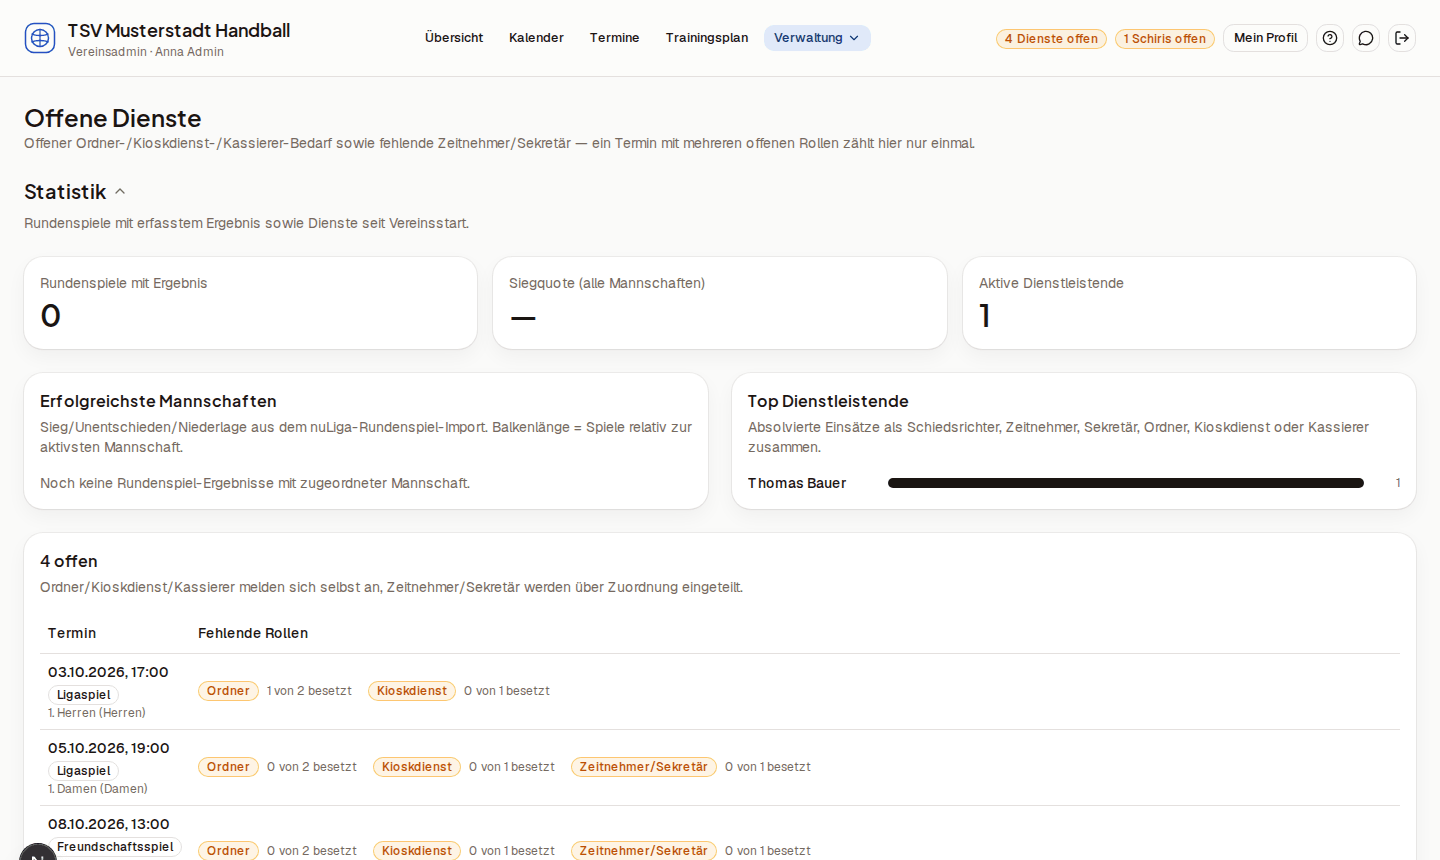
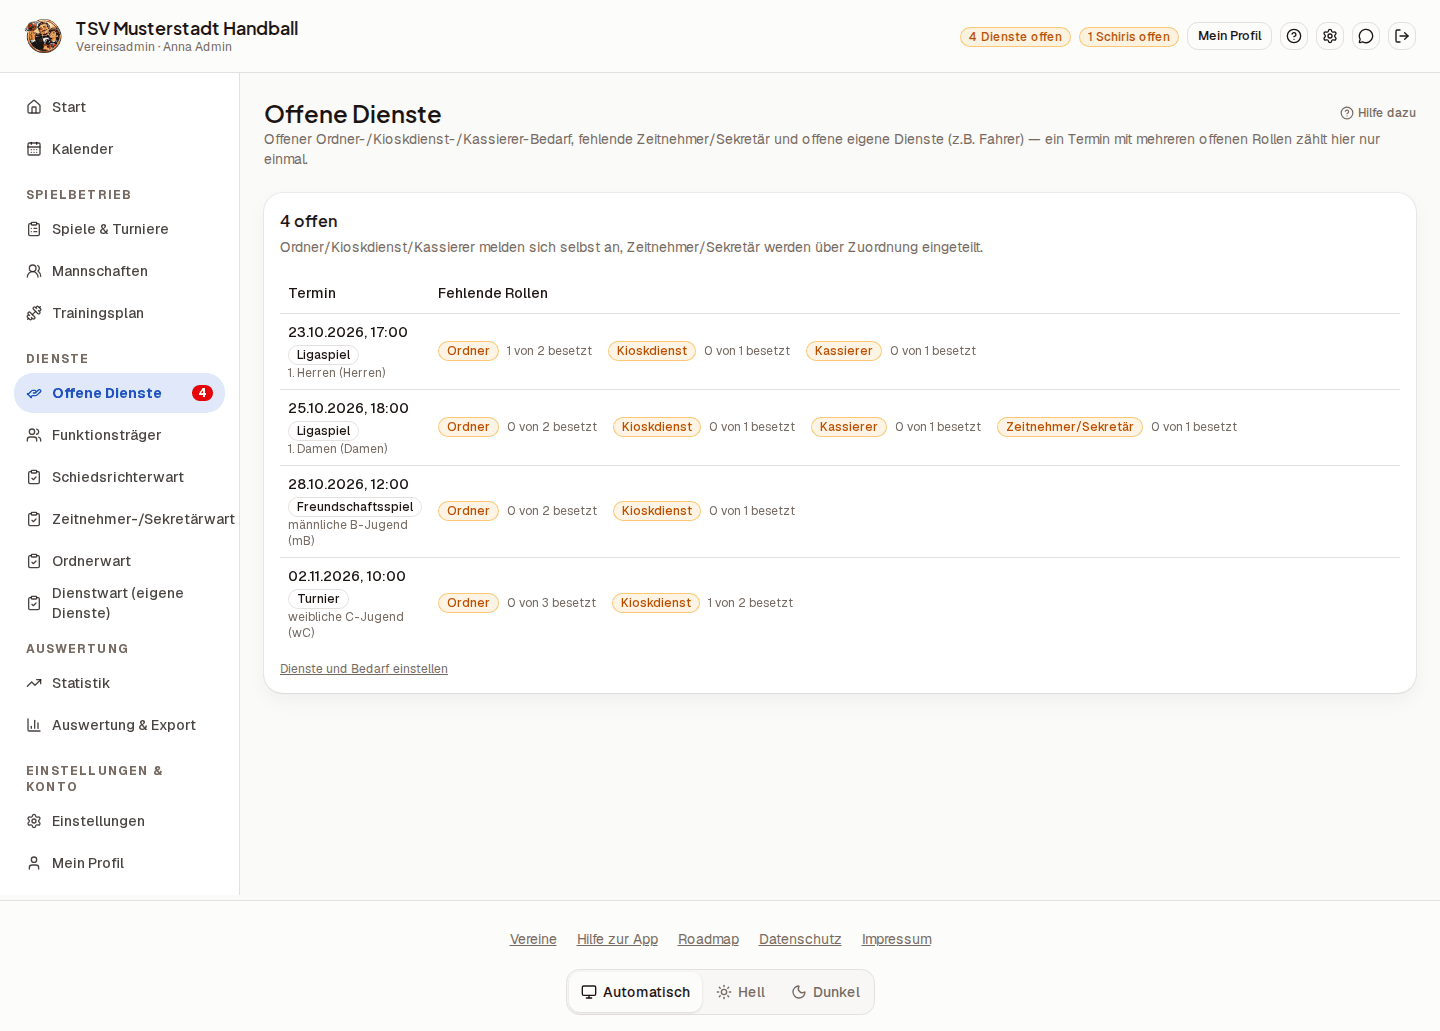
Produkttour: Screenshots im neuen Design, ganze Seite (#456)
* Neues Design: Aufgaben und Hinweise besser lesbar (größer, kontrastreicher)

Claude-Session: https://claude.ai/code/session_013fTG76qMZTfyH2cp8pMWjW

* Neues Design: Kopfzeile fest, Seitenleiste klebt darunter (kein Springen beim Scrollen)

Claude-Session: https://claude.ai/code/session_013fTG76qMZTfyH2cp8pMWjW

* Produkttour: Screenshots im neuen App-Design (Seed setzt design_neu, Zuschnitte angepasst)

Claude-Session: https://claude.ai/code/session_013fTG76qMZTfyH2cp8pMWjW

* Produkttour: Treiber-Patch an aktuellen Stand von db/admin.ts angepasst (Workflow schlug fehl)

Claude-Session: https://claude.ai/code/session_013fTG76qMZTfyH2cp8pMWjW

* Produkttour: Login-Feld heißt jetzt #email (Screenshot-Lauf schlug fehl)

Claude-Session: https://claude.ai/code/session_013fTG76qMZTfyH2cp8pMWjW

* Produkttour-Screenshots neu erzeugt

* Produkttour: Einrichtungs-Assistent überspringen, Next-Dev-Plakette ausblenden

Claude-Session: https://claude.ai/code/session_013fTG76qMZTfyH2cp8pMWjW

* Produkttour-Screenshots neu erzeugt

* Produkttour: ganze Seite statt Zuschnitt, Bildmaße aus masse.json

Claude-Session: https://claude.ai/code/session_013fTG76qMZTfyH2cp8pMWjW

* Produkttour-Screenshots neu erzeugt

* Produkttour: Bildmaße der Ganzseiten-Screenshots, Workflow checkt masse.json mit ein

Claude-Session: https://claude.ai/code/session_013fTG76qMZTfyH2cp8pMWjW

---------

diff --git a/src/app/page.tsx b/src/app/page.tsx
@@ -28,6 +28,7 @@ import { Button } from "@/components/ui/button";
 import { Logo } from "@/components/logo";
 import { ProdukttourBild } from "@/components/produkttour-bild";
 import { Einblenden } from "@/components/einblenden";
+import masse from "../../public/produkttour/masse.json";
 
 // Große, gut tippbare Buttons auf der Startseite (mobil zuerst): 56 px hoch, mit leichtem Druck-Effekt.
 const GROSSER_BUTTON = "h-14 px-8 text-lg transition-transform hover:-translate-y-0.5 active:scale-[0.97]";
@@ -82,22 +83,22 @@ const FEATURES = [
 const PRODUKTTOUR = [
   {
     bild: "/produkttour/uebersicht.png",
-    breite: 1440,
-    hoehe: 530,
+    breite: masse.uebersicht.breite,
+    hoehe: masse.uebersicht.hoehe,
     titel: "Alles auf einen Blick",
     text: "Die Admin-Übersicht zeigt sofort, welche Termine noch Schiedsrichter oder Zeitnehmer brauchen — und die letzten Ergebnisse aus dem Hallenspielplan.",
   },
   {
     bild: "/produkttour/kalender.png",
-    breite: 1440,
-    hoehe: 600,
+    breite: masse.kalender.breite,
+    hoehe: masse.kalender.hoehe,
     titel: "Kalender mit Besetzungsstatus",
     text: "Auf den ersten Blick: welche Spiele vollständig besetzt sind und wo noch Personal fehlt — mit Farbe je Mannschaft und Tagesdetails neben dem Monatsgitter.",
   },
   {
     bild: "/produkttour/dienste.png",
-    breite: 1440,
-    hoehe: 860,
+    breite: masse.dienste.breite,
+    hoehe: masse.dienste.hoehe,
     titel: "Offene Dienste fair verteilen",
     text: "Wer hat schon wie oft gepfiffen oder Kiosk/Ordnerdienst übernommen? Die Statistik zeigt die Verteilung, offene Termine sind sofort sichtbar.",
   },

diff --git a/scripts/produkttour/seed.ts b/scripts/produkttour/seed.ts
@@ -68,6 +68,8 @@ async function main() {
         name: "Anna Admin",
         vereinId,
         istAdmin: true,
+        // Die Produkttour zeigt das neue App-Design (Dashboard, Seitenleiste); ausdrücklich gesetzt, damit es nicht vom Anlagedatum des Vereins abhängt.
+        designNeu: true,
         passwordHash: adminPw,
         letzterLoginAm: heute,
       })

diff --git a/scripts/produkttour/README.md b/scripts/produkttour/README.md
@@ -48,3 +48,5 @@ Funktionsträgern, Mannschaften, Hallen, Trainingszeiten und Terminen an
 `screenshot.mjs` loggt sich damit ein, fährt fünf Admin-Seiten an und
 schneidet die Screenshots auf den relevanten Ausschnitt zu (Crop-Werte in
 `screenshot.mjs` ggf. nachjustieren, falls sich die Kartenhöhen ändern).
+
+Die Bilder zeigen das neue App-Design (Seitenleiste, Dashboard): der Seed setzt `users.design_neu` für den Demo-Admin. Die Bilder zeigen die GANZE Seite (kein Zuschnitt); das Skript schreibt die Bildmaße nach `public/produkttour/masse.json`, die die Startseite liest.
